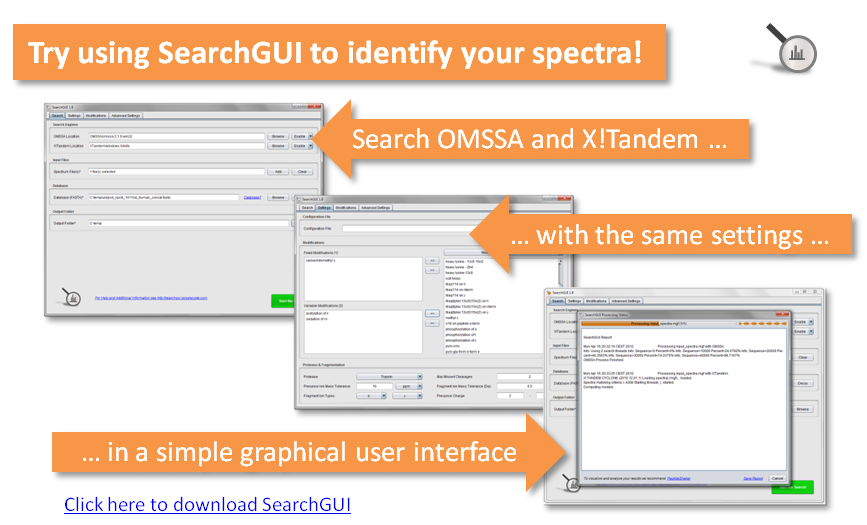
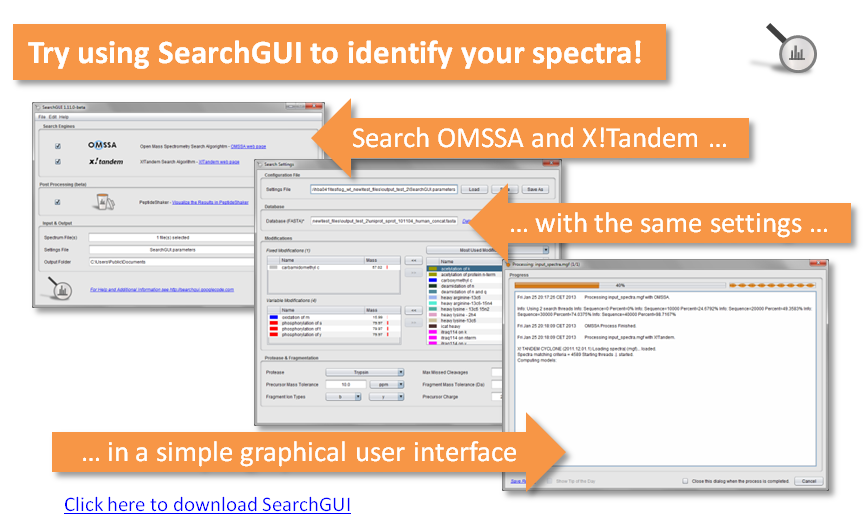
Extended the validateModifications method in IdFilter to kick out peptides with more ptms than possible ptm sites. (Mainly an X!Tandem issue.) Added new export options to the Fraction tab in the Features export dialog. Updated the SearchGUI slide of the GettingStarted dialog.

Changed region(s): [[0.0311, 0.1829, 0.9965, 0.9752], [0.8097, 0.2743, 0.8408, 0.3048]]

diff --git a/src/main/java/eu/isas/peptideshaker/gui/preferencesdialogs/FeaturesPreferencesDialog.java b/src/main/java/eu/isas/peptideshaker/gui/preferencesdialogs/FeaturesPreferencesDialog.java
@@ -145,6 +145,8 @@ public class FeaturesPreferencesDialog extends javax.swing.JDialog {
         fractionsDeselectAllLabel = new javax.swing.JLabel();
         slashLabel5 = new javax.swing.JLabel();
         jLabel1 = new javax.swing.JLabel();
+        fractionMwRange = new javax.swing.JCheckBox();
+        nonEnzymaticPeptides = new javax.swing.JCheckBox();
         projectPanel = new javax.swing.JPanel();
         exportAll = new javax.swing.JButton();
         exportAllLabel = new javax.swing.JLabel();
@@ -972,6 +974,18 @@ public class FeaturesPreferencesDialog extends javax.swing.JDialog {
 
         jLabel1.setText("<html>\n<i>\nNote: While these values provide an idea of how the data distributes<br>\nacross the fractions, further analysis is however required to be able<br>\nto claim that this is indeed the case.\n</i>\n</html>");
 
+        fractionMwRange.setSelected(true);
+        fractionMwRange.setText("Fraction MW Range");
+        fractionMwRange.setToolTipText("Show the molecular weight ranges for each protein.");
+        fractionMwRange.setIconTextGap(10);
+        fractionMwRange.setOpaque(false);
+
+        nonEnzymaticPeptides.setSelected(true);
+        nonEnzymaticPeptides.setText("Non Enzymatic Peptides");
+        nonEnzymaticPeptides.setToolTipText("Do the proteins have non enzymatic peptides?");
+        nonEnzymaticPeptides.setIconTextGap(10);
+        nonEnzymaticPeptides.setOpaque(false);
+
         javax.swing.GroupLayout fractionsPanelLayout = new javax.swing.GroupLayout(fractionsPanel);
         fractionsPanel.setLayout(fractionsPanelLayout);
         fractionsPanelLayout.setHorizontalGroup(
@@ -990,9 +1004,15 @@ public class FeaturesPreferencesDialog extends javax.swing.JDialog {
                         .addComponent(fractionsExport))
                     .addGroup(fractionsPanelLayout.createSequentialGroup()
                         .addGroup(fractionsPanelLayout.createParallelGroup(javax.swing.GroupLayout.Alignment.LEADING)
-                            .addComponent(spectraPerFraction, javax.swing.GroupLayout.PREFERRED_SIZE, 150, javax.swing.GroupLayout.PREFERRED_SIZE)
-                            .addComponent(peptidesPerFraction, javax.swing.GroupLayout.PREFERRED_SIZE, 150, javax.swing.GroupLayout.PREFERRED_SIZE)
-                            .addComponent(precursorIntensitiesPerFraction, javax.swing.GroupLayout.PREFERRED_SIZE, 150, javax.swing.GroupLayout.PREFERRED_SIZE))
+                            .addComponent(precursorIntensitiesPerFraction, javax.swing.GroupLayout.PREFERRED_SIZE, 150, javax.swing.GroupLayout.PREFERRED_SIZE)
+                            .addGroup(fractionsPanelLayout.createSequentialGroup()
+                                .addGroup(fractionsPanelLayout.createParallelGroup(javax.swing.GroupLayout.Alignment.LEADING)
+                                    .addComponent(spectraPerFraction, javax.swing.GroupLayout.PREFERRED_SIZE, 150, javax.swing.GroupLayout.PREFERRED_SIZE)
+                                    .addComponent(peptidesPerFraction, javax.swing.GroupLayout.PREFERRED_SIZE, 150, javax.swing.GroupLayout.PREFERRED_SIZE))
+                                .addGap(75, 75, 75)
+                                .addGroup(fractionsPanelLayout.createParallelGroup(javax.swing.GroupLayout.Alignment.LEADING)
+                                    .addComponent(nonEnzymaticPeptides, javax.swing.GroupLayout.PREFERRED_SIZE, 150, javax.swing.GroupLayout.PREFERRED_SIZE)
+                                    .addComponent(fractionMwRange, javax.swing.GroupLayout.PREFERRED_SIZE, 150, javax.swing.GroupLayout.PREFERRED_SIZE))))
                         .addGap(0, 0, Short.MAX_VALUE)))
                 .addContainerGap())
         );
@@ -1000,14 +1020,20 @@ public class FeaturesPreferencesDialog extends javax.swing.JDialog {
             fractionsPanelLayout.createParallelGroup(javax.swing.GroupLayout.Alignment.LEADING)
             .addGroup(fractionsPanelLayout.createSequentialGroup()
                 .addGap(20, 20, 20)
-                .addComponent(peptidesPerFraction)
-                .addPreferredGap(javax.swing.LayoutStyle.ComponentPlacement.RELATED)
-                .addComponent(spectraPerFraction)
+                .addGroup(fractionsPanelLayout.createParallelGroup(javax.swing.GroupLayout.Alignment.TRAILING)
+                    .addGroup(fractionsPanelLayout.createSequentialGroup()
+                        .addComponent(peptidesPerFraction)
+                        .addPreferredGap(javax.swing.LayoutStyle.ComponentPlacement.RELATED)
+                        .addComponent(spectraPerFraction))
+                    .addGroup(fractionsPanelLayout.createSequentialGroup()
+                        .addComponent(fractionMwRange, javax.swing.GroupLayout.PREFERRED_SIZE, 23, javax.swing.GroupLayout.PREFERRED_SIZE)
+                        .addPreferredGap(javax.swing.LayoutStyle.ComponentPlacement.RELATED)
+                        .addComponent(nonEnzymaticPeptides, javax.swing.GroupLayout.PREFERRED_SIZE, 23, javax.swing.GroupLayout.PREFERRED_SIZE)))
                 .addPreferredGap(javax.swing.LayoutStyle.ComponentPlacement.RELATED)
                 .addComponent(precursorIntensitiesPerFraction, javax.swing.GroupLayout.PREFERRED_SIZE, 23, javax.swing.GroupLayout.PREFERRED_SIZE)
-                .addGap(46, 46, 46)
+                .addPreferredGap(javax.swing.LayoutStyle.ComponentPlacement.RELATED, 53, Short.MAX_VALUE)
                 .addComponent(jLabel1, javax.swing.GroupLayout.PREFERRED_SIZE, 58, javax.swing.GroupLayout.PREFERRED_SIZE)
-                .addPreferredGap(javax.swing.LayoutStyle.ComponentPlacement.RELATED, 13, Short.MAX_VALUE)
+                .addPreferredGap(javax.swing.LayoutStyle.ComponentPlacement.RELATED)
                 .addGroup(fractionsPanelLayout.createParallelGroup(javax.swing.GroupLayout.Alignment.CENTER)
                     .addComponent(fractionsSelectAllLabel, javax.swing.GroupLayout.PREFERRED_SIZE, javax.swing.GroupLayout.DEFAULT_SIZE, javax.swing.GroupLayout.PREFERRED_SIZE)
                     .addComponent(slashLabel5)
@@ -1653,10 +1679,9 @@ public class FeaturesPreferencesDialog extends javax.swing.JDialog {
      * @param evt
      */
     private void fractionsExportActionPerformed(java.awt.event.ActionEvent evt) {//GEN-FIRST:event_fractionsExportActionPerformed
-        // @TODO: this export can be extended with more options
         outputGenerator.getFractionsOutput(this, null, false, true, true, true, true, true, true, true, 
                 true, true, peptidesPerFraction.isSelected(), spectraPerFraction.isSelected(), precursorIntensitiesPerFraction.isSelected(), 
-                true, true, false, true, false, true);
+                fractionMwRange.isSelected(), true, false, true, false, nonEnzymaticPeptides.isSelected());
     }//GEN-LAST:event_fractionsExportActionPerformed
 
     /**
@@ -1668,6 +1693,8 @@ public class FeaturesPreferencesDialog extends javax.swing.JDialog {
         peptidesPerFraction.setSelected(true);
         spectraPerFraction.setSelected(true);
         precursorIntensitiesPerFraction.setSelected(true);
+        fractionMwRange.setSelected(true);
+        nonEnzymaticPeptides.setSelected(true);
     }//GEN-LAST:event_fractionsSelectAllLabelMouseClicked
 
     /**
@@ -1697,6 +1724,8 @@ public class FeaturesPreferencesDialog extends javax.swing.JDialog {
         peptidesPerFraction.setSelected(false);
         spectraPerFraction.setSelected(false);
         precursorIntensitiesPerFraction.setSelected(false);
+        fractionMwRange.setSelected(false);
+        nonEnzymaticPeptides.setSelected(false);
     }//GEN-LAST:event_fractionsDeselectAllLabelMouseClicked
 
     /**
@@ -1744,6 +1773,7 @@ public class FeaturesPreferencesDialog extends javax.swing.JDialog {
     private javax.swing.JLabel exportPhosphLabel;
     private javax.swing.JButton exportPhospoJButton;
     private javax.swing.JPanel featuresPanel;
+    private javax.swing.JCheckBox fractionMwRange;
     private javax.swing.JLabel fractionsDeselectAllLabel;
     private javax.swing.JButton fractionsExport;
     private javax.swing.JPanel fractionsPanel;
@@ -1752,6 +1782,7 @@ public class FeaturesPreferencesDialog extends javax.swing.JDialog {
     private javax.swing.JLabel jLabel1;
     private javax.swing.JCheckBox maximalProteinSetCheckBox;
     private javax.swing.JCheckBox molecularWeight;
+    private javax.swing.JCheckBox nonEnzymaticPeptides;
     private javax.swing.JCheckBox peptideAccession;
     private javax.swing.JCheckBox peptideConfidence;
     private javax.swing.JLabel peptideDeselectAllLabel;

diff --git a/src/main/java/eu/isas/peptideshaker/fileimport/IdFilter.java b/src/main/java/eu/isas/peptideshaker/fileimport/IdFilter.java
@@ -1,5 +1,6 @@
 package eu.isas.peptideshaker.fileimport;
 
+import com.compomics.util.experiment.biology.PTM;
 import com.compomics.util.experiment.biology.PTMFactory;
 import com.compomics.util.experiment.biology.Peptide;
 import com.compomics.util.experiment.identification.Advocate;
@@ -11,6 +12,7 @@ import com.compomics.util.experiment.massspectrometry.SpectrumFactory;
 import java.io.IOException;
 import java.io.Serializable;
 import java.util.ArrayList;
+import java.util.HashMap;
 import uk.ac.ebi.jmzml.xml.io.MzMLUnmarshallerException;
 
 /**
@@ -96,10 +98,11 @@ public class IdFilter implements Serializable {
         this.isPpm = isPpm;
         this.unknownPtm = unknownPTM;
     }
-    
+
     /**
-     * Validates the peptide assumption based on the peptide length and maximal e-values allowed.
-     * 
+     * Validates the peptide assumption based on the peptide length and maximal
+     * e-values allowed.
+     *
      * @param assumption the assumption to validate
      * @return a boolean indicating whether the assumption passed the test
      */
@@ -136,15 +139,16 @@ public class IdFilter implements Serializable {
         }
         return true;
     }
-    
+
     /**
      * Validates the modifications of a peptide.
-     * 
+     *
      * @param peptide the peptide of interest
      * @return a boolean indicating whether the peptide passed the test
      */
     public boolean validateModifications(Peptide peptide) {
 
+        // check it it's an unknown peptide
         if (unknownPtm) {
             ArrayList<ModificationMatch> modificationMatches = peptide.getModificationMatches();
             for (ModificationMatch modMatch : modificationMatches) {
@@ -153,6 +157,40 @@ public class IdFilter implements Serializable {
                 }
             }
         }
+
+        PTMFactory ptmFactory = PTMFactory.getInstance();
+
+        // check if there are more ptms than ptm sites
+        HashMap<String, ArrayList<ModificationMatch>> modMatches = new HashMap<String, ArrayList<ModificationMatch>>();
+        for (ModificationMatch modMatch : peptide.getModificationMatches()) {
+            if (modMatch.isVariable()) {
+                String modName = modMatch.getTheoreticPtm();
+                PTM ptm = ptmFactory.getPTM(modName);
+                if (ptm.getType() == PTM.MODAA) {
+                    if (!modMatches.containsKey(modName)) {
+                        modMatches.put(modName, new ArrayList<ModificationMatch>());
+                    }
+                    modMatches.get(modName).add(modMatch);
+                }
+            }
+        }
+
+        ArrayList<ModificationMatch> modificationMatches = peptide.getModificationMatches();
+
+        for (String modName : modMatches.keySet()) {
+            for (ModificationMatch modMatch : modificationMatches) {
+                try {
+                    ArrayList<Integer> possiblePositions = peptide.getPotentialModificationSites(ptmFactory.getPTM(modMatch.getTheoreticPtm()));
+                    if (possiblePositions.size() < modMatches.get(modName).size()) {
+                        return false;
+                    }
+                } catch (Exception e) {
+                    e.printStackTrace();
+                    return false;
+                }
+            }
+        }
+
         return true;
     }
 
@@ -160,9 +198,9 @@ public class IdFilter implements Serializable {
      * Validates the mass deviation of a peptide assumption.
      *
      * @param assumption the considered peptide assumption
-     * @param spectrumKey the key of the spectrum used to get the precursor
-     * the precursor should be accessible via the spectrum factory
-     * 
+     * @param spectrumKey the key of the spectrum used to get the precursor the
+     * precursor should be accessible via the spectrum factory
+     *
      * @return a boolean indicating whether the given assumption passes the
      * filter
      * @throws IOException

diff --git a/src/main/java/eu/isas/peptideshaker/utils/DisplayFeaturesGenerator.java b/src/main/java/eu/isas/peptideshaker/utils/DisplayFeaturesGenerator.java
@@ -243,14 +243,14 @@ public class DisplayFeaturesGenerator {
 
     /**
      * Returns the peptide with modification sites tagged (color coded or with
-     * ptm tags, e.g, &lt;mox&gt;) in the sequence based on PeptideShaker site
+     * PTM tags, e.g, &lt;mox&gt;) in the sequence based on PeptideShaker site
      * inference results. Shall be used for peptides, not PSMs, for PSM use the 
      * one taking in a Peptide object instead.
      *
      * @param peptideKey the peptide key
-     * @param useHtmlColorCoding if true, color coded html is used, otherwise
-     * ptm tags, e.g, &lt;mox&gt;, are used
-     * @param includeHtmlStartEndTags if true, html start and end tags are added
+     * @param useHtmlColorCoding if true, color coded HTML is used, otherwise
+     * PTM tags, e.g, &lt;mox&gt;, are used
+     * @param includeHtmlStartEndTags if true, HTML start and end tags are added
      * @param useShortName if true the short names are used in the tags
      * @return the tagged peptide sequence
      */
@@ -281,15 +281,15 @@ public class DisplayFeaturesGenerator {
 
     /**
      * Returns the modified sequence as an tagged string with potential
-     * modification sites color coded or with ptm tags, e.g, &lt;mox&gt;. /!\
-     * This method will work only if the ptm found in the peptide are in the
+     * modification sites color coded or with PTM tags, e.g, &lt;mox&gt;. /!\
+     * This method will work only if the PTM found in the peptide are in the
      * PTMFactory. /!\ This method uses the modifications as set in the
      * modification matches of this peptide and displays all of them.
      *
      * @param peptide the peptide
-     * @param useHtmlColorCoding if true, color coded html is used, otherwise
-     * ptm tags, e.g, &lt;mox&gt;, are used
-     * @param includeHtmlStartEndTag if true, start and end html tags are added
+     * @param useHtmlColorCoding if true, color coded HTML is used, otherwise
+     * PTM tags, e.g, &lt;mox&gt;, are used
+     * @param includeHtmlStartEndTag if true, start and end HTML tags are added
      * @param useShortName if true the short names are used in the tags
      * @return the tagged sequence as a string
      */
@@ -340,7 +340,7 @@ public class DisplayFeaturesGenerator {
      * Filters the modification map according to the user's display preferences.
      *
      * @param modificationMap the map of modifications to filter (amino acid ->
-     * list of modifications, 1 is the first aa)
+     * list of modifications, 1 is the first amino acid)
      * @param displayPreferences the display preferences
      * @return a map of filtered modifications based on the user display
      * preferences
